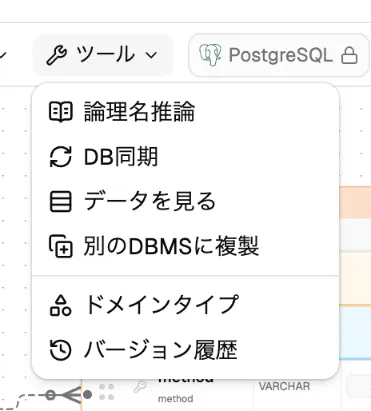
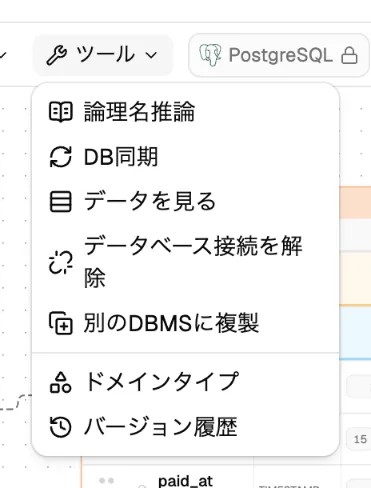
feat: v1.48 — 데이터베이스 연결 해지(ERD 탭 행 메뉴·에디터 도구 메뉴 공용 확인 창), 사용 가이드 4개 언어·그림

diff --git a/src/features/models/components/erd-tab.tsx b/src/features/models/components/erd-tab.tsx
@@ -9,7 +9,7 @@
  *   연결된 문서는 DB 종류 배지에 링크 표시로 구분한다
  */
 import { useEffect, useState } from 'react'
-import { ChevronLeft, ChevronRight, Ellipsis, Globe, Link2, Pencil, Plus, Search, Trash2 } from 'lucide-react'
+import { ChevronLeft, ChevronRight, Ellipsis, Globe, Link2, Pencil, Plus, Search, Trash2, Unlink } from 'lucide-react'
 import { useTranslation } from 'react-i18next'
 import { useSearchParams } from 'react-router-dom'
 import { toast } from 'sonner'
@@ -40,6 +40,7 @@ import { DatabaseImportButton } from '@/features/connections'
 import {
   ConnectDatabaseDialog,
   CreateModelDialog,
+  DisconnectDatabaseDialog,
   EditModelDialog,
   ImportCrownButton,
   modelEditorPath,
@@ -64,6 +65,7 @@ export function ErdTab({ workspaceId, canCreate, isOwner }: ErdTabProps) {
   const [siteFor, setSiteFor] = useState<ModelSummary | null>(null)
   const [deleting, setDeleting] = useState<ModelSummary | null>(null)
   const [connecting, setConnecting] = useState<ModelSummary | null>(null)
+  const [disconnecting, setDisconnecting] = useState<ModelSummary | null>(null)
   const page = Math.max(1, Number(searchParams.get('page') ?? '1') || 1)
   const debouncedKeyword = useDebouncedValue(keyword)
   const models = useModels(workspaceId, debouncedKeyword.trim(), page)
@@ -220,6 +222,7 @@ export function ErdTab({ workspaceId, canCreate, isOwner }: ErdTabProps) {
                       canCreate={canCreate}
                       isOwner={isOwner}
                       onConnect={setConnecting}
+                      onDisconnect={setDisconnecting}
                       onEdit={setEditing}
                       onDelete={setDeleting}
                     />
@@ -270,6 +273,15 @@ export function ErdTab({ workspaceId, canCreate, isOwner }: ErdTabProps) {
           model={connecting}
         />
       ) : null}
+      {/* 연결 해지(1.17) — 에디터 도구 메뉴와 같은 확인 다이얼로그 */}
+      {disconnecting ? (
+        <DisconnectDatabaseDialog
+          open
+          onOpenChange={(open) => !open && setDisconnecting(null)}
+          workspaceId={workspaceId}
+          model={disconnecting}
+        />
+      ) : null}
       <ConfirmDialog
         open={deleting !== null}
         onOpenChange={(open) => !open && setDeleting(null)}
@@ -290,6 +302,7 @@ function ModelRowMenu({
   canCreate,
   isOwner,
   onConnect,
+  onDisconnect,
   onEdit,
   onDelete,
 }: {
@@ -297,6 +310,7 @@ function ModelRowMenu({
   canCreate: boolean
   isOwner: boolean
   onConnect: (model: ModelSummary) => void
+  onDisconnect: (model: ModelSummary) => void
   onEdit: (model: ModelSummary) => void
   onDelete: (model: ModelSummary) => void
 }) {
@@ -319,6 +333,12 @@ function ModelRowMenu({
           <DropdownMenuItem onSelect={() => onConnect(model)}>
             <Link2 aria-hidden />
             {t('model.list.menu.connect')}
+          </DropdownMenuItem>
+        ) : null}
+        {canCreate && model.sourceConnectionId !== null ? (
+          <DropdownMenuItem onSelect={() => onDisconnect(model)}>
+            <Unlink aria-hidden />
+            {t('model.list.menu.disconnect')}
           </DropdownMenuItem>
         ) : null}
         {canCreate ? (

diff --git a/src/features/editor/components/EditorToolbar.tsx b/src/features/editor/components/EditorToolbar.tsx
@@ -45,6 +45,7 @@ import {
   Share2,
   ShieldCheck,
   Undo2,
+  Unlink,
   Waypoints,
   Wrench,
   ZoomIn,
@@ -61,6 +62,7 @@ import { DbmsIcon } from '@/components/dbms-icon'
 import { ThemeToggle } from '@/components/theme-toggle'
 import { useConnections } from '@/features/connections/hooks'
 import { ConnectDatabaseDialog } from '@/features/models/components/connect-database-dialog'
+import { DisconnectDatabaseDialog } from '@/features/models/components/disconnect-database-dialog'
 import { ShareDialog } from '@/features/models/components/share-dialog'
 import { modelKeys, useShareFeedback, useToggleShareReaction } from '@/features/models/hooks'
 import { useSessionStore } from '@/stores/session'
@@ -941,7 +943,7 @@ function ShareButton({
  *  · 다른 DBMS로 복제(§3.5 — 편집 권한) · 도메인 타입(§16 — 멤버 전체, 쓰기는 편집 권한)
  *  · 버전 기록(08-core/02-model.md §1.11 — 멤버 전체)
  *  항목은 어느 다이얼로그를 열지만 정하고, 다이얼로그는 메뉴 밖에서 렌더한다. */
-type ToolDialog = 'logicalNames' | 'connect' | 'sync' | 'migration' | 'convert' | 'history'
+type ToolDialog = 'logicalNames' | 'connect' | 'disconnect' | 'sync' | 'migration' | 'convert' | 'history'
 
 function ToolsMenu({
   canEdit,
@@ -1012,6 +1014,13 @@ function ToolsMenu({
               onSelect={() => setActive('sync')}
             />
           ) : null}
+          {/* 연결 해지(§1.17) — 연결된 문서에만. 해지하면 상세가 재조회돼 '데이터베이스 연결'로 돌아간다 */}
+          {canEdit && sourceConnectionId ? (
+            <DropdownMenuItem onSelect={() => setActive('disconnect')}>
+              <Unlink aria-hidden />
+              {t('model.disconnect.toolbar')}
+            </DropdownMenuItem>
+          ) : null}
           {canEdit ? (
             <DropdownMenuItem onSelect={() => setActive('convert')}>
               <CopyPlus aria-hidden />
@@ -1044,6 +1053,14 @@ function ToolsMenu({
           onOpenChange={close}
           workspaceId={workspaceId}
           model={{ modelId, name: modelName, databaseType }}
+        />
+      ) : null}
+      {active === 'disconnect' ? (
+        <DisconnectDatabaseDialog
+          open
+          onOpenChange={close}
+          workspaceId={workspaceId}
+          model={{ modelId, name: modelName }}
         />
       ) : null}
       {sourceConnectionId ? (

diff --git a/src/features/models/components/__tests__/disconnect-database-dialog.test.tsx b/src/features/models/components/__tests__/disconnect-database-dialog.test.tsx
@@ -1,0 +1,45 @@
+/**
+ * 문서-데이터베이스 연결 해지 확인 테스트 (08-core/02-model.md §1.17)
+ *
+ * given: 연결된 문서
+ * when: 확인 다이얼로그에서 연결 해지
+ * then: 데이터베이스는 남는다는 안내, DELETE 호출 후 닫힘
+ */
+import { fireEvent, screen, waitFor } from '@testing-library/react'
+import { describe, expect, it, vi } from 'vitest'
+import { http, HttpResponse } from 'msw'
+
+import { server } from '@/api/mocks/server'
+import { DisconnectDatabaseDialog } from '@/features/models/components/disconnect-database-dialog'
+import { renderWithProviders } from '@/test/test-app'
+
+describe('DisconnectDatabaseDialog', () => {
+  it('데이터베이스가 지워지지 않는다고 안내하고, 해지하면 DELETE를 부른 뒤 닫는다', async () => {
+    const onOpenChange = vi.fn()
+    const calls: string[] = []
+    server.use(
+      http.delete('*/api/v1/core/workspaces/101/models/502/connections', ({ request }) => {
+        calls.push(request.method)
+        return HttpResponse.json({
+          header: { isSuccessful: true, resultCode: 'SUCCESS', resultMessage: 'SUCCESS' },
+          response: { modelId: '502', sourceConnectionId: null },
+        })
+      }),
+    )
+    renderWithProviders(
+      <DisconnectDatabaseDialog
+        open
+        onOpenChange={onOpenChange}
+        workspaceId="101"
+        model={{ modelId: '502', name: '회원 서비스 ERD' }}
+      />,
+      { wrapRoutes: false },
+    )
+
+    expect(await screen.findByText(/테이블과 데이터는 지워지지 않습니다/)).toBeVisible()
+    fireEvent.click(screen.getByRole('button', { name: '연결 해지' }))
+
+    await waitFor(() => expect(onOpenChange).toHaveBeenCalledWith(false))
+    expect(calls).toEqual(['DELETE'])
+  })
+})

diff --git a/src/features/models/components/disconnect-database-dialog.tsx b/src/features/models/components/disconnect-database-dialog.tsx
@@ -1,0 +1,55 @@
+/**
+ * 문서-데이터베이스 연결 해지 확인 — 공용 레이어 (08-core/02-model.md §1.17)
+ *
+ * ERD 탭 행 메뉴와 에디터 도구 메뉴가 같은 이 컴포넌트로 해지한다(최초 연결 다이얼로그와 같은 구조).
+ * 문서의 연결만 끊는다 — 커넥션·데이터베이스·데이터는 남는다고 확인 문구에 적는다.
+ */
+import { useTranslation } from 'react-i18next'
+import { toast } from 'sonner'
+
+import type { ModelSummary } from '@/api/types'
+import { ConfirmDialog } from '@/components/confirm-dialog'
+import { useDisconnectModel } from '@/features/models/hooks'
+import { errorMessage } from '@/lib/result-code'
+
+export interface DisconnectDatabaseDialogProps {
+  open: boolean
+  onOpenChange: (open: boolean) => void
+  workspaceId: string
+  model: Pick<ModelSummary, 'modelId' | 'name'>
+}
+
+export function DisconnectDatabaseDialog({
+  open,
+  onOpenChange,
+  workspaceId,
+  model,
+}: DisconnectDatabaseDialogProps) {
+  const { t } = useTranslation()
+  const disconnect = useDisconnectModel(workspaceId)
+
+  const run = () => {
+    disconnect.mutate(model.modelId, {
+      onSuccess: () => {
+        onOpenChange(false)
+        toast.success(t('model.disconnect.successToast', { name: model.name }))
+      },
+      onError: (error) => {
+        toast.error(errorMessage(error))
+      },
+    })
+  }
+
+  return (
+    <ConfirmDialog
+      open={open}
+      onOpenChange={onOpenChange}
+      title={t('model.disconnect.title')}
+      description={t('model.disconnect.description', { model: model.name })}
+      confirmLabel={t('model.disconnect.confirm')}
+      destructive
+      confirming={disconnect.isPending}
+      onConfirm={run}
+    />
+  )
+}

diff --git a/src/features/models/hooks.ts b/src/features/models/hooks.ts
@@ -8,6 +8,7 @@ import { keepPreviousData, useMutation, useQuery, useQueryClient } from '@tansta
 import {
   cloneFromTemplate,
   connectModel,
+  disconnectModel,
   createModel,
   createModelComment,
   createModelShare,
@@ -154,6 +155,18 @@ export function useConnectModel(workspaceId: string) {
   return useMutation({
     mutationFn: ({ modelId, connectionId }: { modelId: string; connectionId: string }) =>
       connectModel(workspaceId, modelId, connectionId),
+    onSuccess: () => {
+      void queryClient.invalidateQueries({ queryKey: ['workspaces', workspaceId, 'models'] })
+    },
+  })
+}
+
+/** 연결 해지(§1.17) — 목록·상세가 같은 models 프리픽스라 함께 재조회돼 진입점이 '연결'로 돌아간다 */
+export function useDisconnectModel(workspaceId: string) {
+  const queryClient = useQueryClient()
+
+  return useMutation({
+    mutationFn: (modelId: string) => disconnectModel(workspaceId, modelId),
     onSuccess: () => {
       void queryClient.invalidateQueries({ queryKey: ['workspaces', workspaceId, 'models'] })
     },

diff --git a/scripts/capture-guide.test.ts b/scripts/capture-guide.test.ts
@@ -473,6 +473,18 @@ const APP_SCENES: Scene[] = [
       await shotMenu(s, 'document-row-menu', row.getByRole('button').last(), await row.boundingBox())
     },
   },
+  {
+    // 연결 해지 확인(v1.48 — 08-core/02-model.md §1.17). 가이드 문서는 커넥션에 연결돼 있다
+    name: 'document-disconnect',
+    run: async (s) => {
+      await goto(s, `/workspaces/${WS}`)
+      await s.page.locator('tbody tr').first().getByRole('button').last().click()
+      await s.page.getByRole('menuitem', { name: s.t('model.list.menu.disconnect'), exact: true }).click()
+      await dialog(s).waitFor()
+      await s.page.waitForTimeout(400)
+      await s.shot('document-disconnect', { locator: dialog(s) })
+    },
+  },
   { name: 'workspace-database', run: async (s) => { await goto(s, `/workspaces/${WS}?tab=database`); await s.shot('workspace-database') } },
   {
     name: 'workspace-site-dialog',

diff --git a/src/features/models/api.ts b/src/features/models/api.ts
@@ -115,6 +115,12 @@ export function connectModel(workspaceId: string, modelId: string, connectionId:
   )
 }
 
+/** 문서-데이터베이스 연결 해지(§1.17) — 원천 커넥션을 지운다(Editor 이상). 커넥션·데이터베이스는 남는다.
+ *  응답은 갱신된 요약(sourceConnectionId null). 미연결 문서여도 200(멱등) */
+export function disconnectModel(workspaceId: string, modelId: string) {
+  return apiDelete<ModelSummary>(`/api/v1/core/workspaces/${workspaceId}/models/${modelId}/connections`)
+}
+
 /** 데이터베이스 종류 코드(활성만) — 생성 다이얼로그 드롭다운 */
 export function fetchDatabaseTypes(signal?: AbortSignal): Promise<ListResult<DatabaseType>> {
   return apiGetList<DatabaseType>('/api/v1/core/database-types', undefined, signal)

diff --git a/src/api/mocks/handlers.ts b/src/api/mocks/handlers.ts
@@ -2128,6 +2128,16 @@ export const handlers = [
     },
   ),
 
+  // 문서-데이터베이스 연결 해지(§1.17) — 픽스처 불변 원칙: 해지된 요약만 조립해 돌려준다(멱등)
+  http.delete(
+    `${BASE}/api/v1/core/workspaces/:workspaceId/models/:modelId/connections`,
+    ({ params }) => {
+      const model = fixtures.models.responses.find((item) => item.modelId === params.modelId)
+      if (!model) return fail('MODEL_NOT_FOUND', 404)
+      return HttpResponse.json(ok({ response: { ...model, sourceConnectionId: null } }))
+    },
+  ),
+
   // 모델 삭제 — 204
   http.delete(`${BASE}/api/v1/core/workspaces/:workspaceId/models/:modelId`, () =>
     new HttpResponse(null, { status: 204 }),

diff --git a/src/features/models/components/connect-database-dialog.tsx b/src/features/models/components/connect-database-dialog.tsx
@@ -4,7 +4,7 @@
  * ERD 탭 행 액션과 에디터 툴바가 같은 이 컴포넌트로 연결시킨다(양쪽 진입점, 공통 구조).
  * 대상은 문서 DBMS와 같은 dbmsType의 커넥션만 노출한다(다르면 서버가 400으로 거부).
  * 이미 연결된 문서에는 진입점 자체가 없으므로 409 MODEL_ALREADY_CONNECTED는
- * 서버 가드 실패 안내로만 다룬다(해지·전환은 후속 버전).
+ * 서버 가드 실패 안내로만 다룬다(해지는 disconnect-database-dialog — §1.17).
  */
 import { useEffect, useState } from 'react'
 import { useTranslation } from 'react-i18next'

diff --git a/src/features/models/index.ts b/src/features/models/index.ts
@@ -2,6 +2,7 @@ export * from '@/features/models/api'
 export * from '@/features/models/hooks'
 export * from '@/features/models/components/erd-tab'
 export * from '@/features/models/components/connect-database-dialog'
+export * from '@/features/models/components/disconnect-database-dialog'
 export * from '@/features/models/components/share-dialog'
 export * from '@/features/models/components/import-crown-button'
 export * from '@/features/models/components/create-model-dialog'

diff --git a/src/content/guide/ja.md b/src/content/guide/ja.md
@@ -135,7 +135,7 @@ Crowfootの画面は大きく3種類あります。
 
 ![ドキュメント行のメニュー](/guide-assets/ja/document-row-menu.webp)
 
-行の右端にある3点ボタンを押すと、**{{model.list.menu.edit}}**と **{{model.list.menu.delete}}**が表示されます。データベースに接続していないドキュメントには、**{{model.list.menu.connect}}**も表示されます。
+行の右端にある3点ボタンを押すと、**{{model.list.menu.edit}}**と **{{model.list.menu.delete}}**が表示されます。データベースに接続していないドキュメントには、**{{model.list.menu.connect}}**も表示されます。接続済みのドキュメントには、代わりに **{{model.list.menu.disconnect}}**が表示されます。
 
 * **{{model.list.menu.edit}}**で変更できるのは名前と説明だけです。データベースの種類とバージョンは変更できません。
 * 行の地球アイコンを押すと **{{model.site.heading}}** ダイアログが開き、このドキュメントで作ったサイトを登録します（13.3節）。
@@ -693,6 +693,13 @@ SQLスクリプトウィンドウの **{{model.editor.deploy.button}}**を押す
 * 既存のテーブルに追加したインデックスも、マイグレーションDDLに含まれます。
 
 データベースに接続していないドキュメントは、ドキュメント一覧の行メニューにある **{{model.list.menu.connect}}**で接続します。
+
+接続を解除するには、ドキュメント一覧の行メニューで **{{model.list.menu.disconnect}}**を選ぶか、エディタの **{{model.editor.toolbar.tools}}** › **{{model.disconnect.toolbar}}**を選びます。
+
+![データベース接続を解除](/guide-assets/ja/document-disconnect.webp)
+
+* ドキュメントとデータベースの接続だけを解除します。接続設定やデータベース、その中のテーブルとデータは削除されません。
+* 解除したドキュメントにはDB同期が表示されません。別のデータベースに接続するには、解除してから **{{model.list.menu.connect}}**で接続し直します。
 
 ### 10.5 別のDBMSに複製
 
